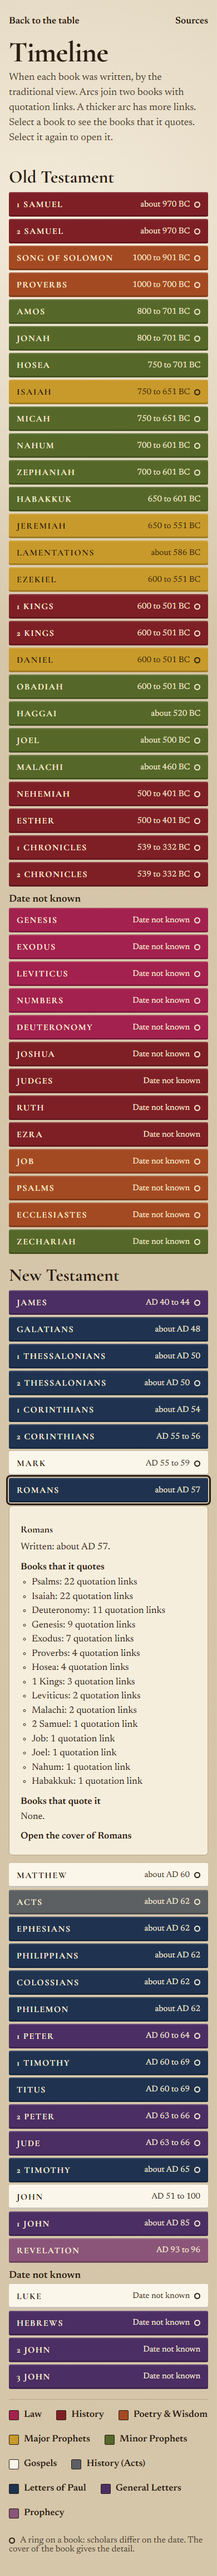
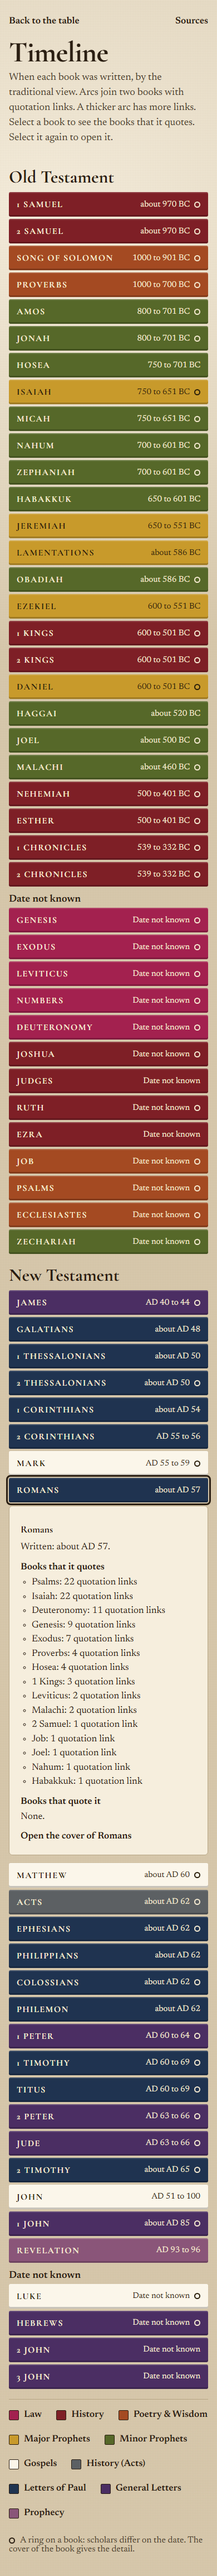
Task 8b: line between the bands counts range to range; the year leads for Obadiah

Changed region(s): [[0.0308, 0.2185, 0.9538, 0.2809]]

diff --git a/src/timeline/TimelinePage.tsx b/src/timeline/TimelinePage.tsx
@@ -207,18 +207,10 @@ function Bands({ books, data, differ, selected, picked, onActivate }: ViewProps)
     return m
   }, [bands])
 
-  // The years between the last book of band 1 and the first book of band 2, from the dates.
+  // The years between the two bands, from the dates. docs/DESIGN.md section 4.6.
   const between = useMemo(() => {
-    const inOrder = (list: Book[]) =>
-      list
-        .map((b, i) => ({ b, i, at: standPoint(data.dates.get(b.id)!) }))
-        .filter((e) => e.at !== null)
-        .sort((p, q) => p.at! - q.at! || p.i - q.i)
-    const old = inOrder(books.slice(0, OLD_TESTAMENT_BOOKS))
-    const neu = inOrder(books.slice(OLD_TESTAMENT_BOOKS))
-    const last = old[old.length - 1].b
-    const first = neu[0].b
-    return { last, first, years: yearsBetween(data.dates.get(last.id)!, data.dates.get(first.id)!) }
+    const datesOf = (list: Book[]) => list.map((b) => data.dates.get(b.id)!)
+    return yearsBetween(datesOf(books.slice(0, OLD_TESTAMENT_BOOKS)), datesOf(books.slice(OLD_TESTAMENT_BOOKS)))
   }, [books, data])
 
   // A spine dims when a legend group excludes it, or when a different book is selected and it has no arc to that book.
@@ -337,7 +329,7 @@ function Bands({ books, data, differ, selected, picked, onActivate }: ViewProps)
 
           {renderBand(bands.old, 1, 'Old Testament')}
           <p className="tl-between" style={{ top: axis1 + MIDDLE_PX / 2 - 16 }}>
-            About {between.years} years between {between.last.name} and {between.first.name}
+            About {between} years or more between the last Old Testament book and the first New Testament book
           </p>
           {renderBand(bands.neu, 2, 'New Testament')}
         </>

diff --git a/src/data/dates.test.ts b/src/data/dates.test.ts
@@ -130,10 +130,27 @@ describe('the date helpers', () => {
     expect([1, 2, 5, 6, 38].map(arcStep)).toEqual([1, 2, 2, 3, 3])
   })
 
-  it('computes the years between two spines', () => {
+  it('counts the years between the bands from the end of the last range to the start of the first range (Task 8b)', () => {
     const a: BookDate = { id: 'a', kind: 'range', from: -539, to: -332, words: '' }
+    const y: BookDate = { id: 'y', kind: 'year', from: -460, to: -460, words: '' }
+    const none: BookDate = { id: 'n', kind: 'unknown', from: null, to: null, words: '' }
     const b: BookDate = { id: 'b', kind: 'range', from: 40, to: 44, words: '' }
-    expect(yearsBetween(a, b)).toBe(480)
+    const c: BookDate = { id: 'c', kind: 'year', from: 48, to: 48, words: '' }
+    // From 332 BC to AD 40 with no year 0: 371 years, rounded down to 370.
+    expect(yearsBetween([y, a, none], [c, b, none])).toBe(370)
+  })
+
+  it('gives 370 years between the bands with the dates of dates.json', () => {
+    expect(yearsBetween(dates.slice(0, 39), dates.slice(39))).toBe(370)
+  })
+})
+
+describe('the year leads where the words give a year and a century (Task 8b step 2)', () => {
+  it('stands Obadiah and Lamentations at 586 BC', () => {
+    for (const id of ['obadiah', 'lamentations']) {
+      const d = dates.find((x) => x.id === id)!
+      expect([d.kind, d.from, d.to], id).toEqual(['year', -586, -586])
+    }
   })
 })
 

diff --git a/src/data/dates.ts b/src/data/dates.ts
@@ -58,14 +58,15 @@ export function arcStep(n: number): 1 | 2 | 3 {
 }
 
 /**
- * The years between the last book of the first band and the first book of the second band,
- * from the points where their spines stand. Rounded to 10 years.
+ * The years between two bands: from the end of the last range in the first band to the start of the
+ * first range in the second band. A book with one year is a range of one year. Books with no date do
+ * not count. Rounded down to 10 years, because the line says "N years or more". docs/DESIGN.md 4.6.
  */
-export function yearsBetween(last: BookDate, first: BookDate): number {
-  const a = standPoint(last)
-  const b = standPoint(first)
-  if (a === null || b === null) throw new Error('A book with no date has no place on the axis')
-  return Math.round((b - a) / 10) * 10
+export function yearsBetween(first: BookDate[], second: BookDate[]): number {
+  const ends = first.filter((d) => d.to !== null).map((d) => lineYear(d.to!))
+  const starts = second.filter((d) => d.from !== null).map((d) => lineYear(d.from!))
+  if (!ends.length || !starts.length) throw new Error('A band has no book with a date')
+  return Math.floor((Math.min(...starts) - Math.max(...ends)) / 10) * 10
 }
 
 export async function loadDates(): Promise<BookDate[]> {

diff --git a/e2e/timeline.spec.ts b/e2e/timeline.spec.ts
@@ -9,7 +9,7 @@ test.describe('timeline page', () => {
     await expect(page.getByRole('list', { name: 'Old Testament, in date order' }).getByRole('button')).toHaveCount(39)
     await expect(page.getByRole('list', { name: 'New Testament, in date order' }).getByRole('button')).toHaveCount(27)
     await expect(page.locator('path.tl-arc')).toHaveCount(129)
-    await expect(page.locator('.tl-between')).toHaveText(/^About \d+ years between \S.* and \S/)
+    await expect(page.locator('.tl-between')).toHaveText(/^About \d+ years or more between the last Old Testament book and the first New Testament book$/)
   })
 
   test('a selected book shows its list, and a second action opens its cover', async ({ page }) => {

diff --git a/docs/CONTENT-SOURCES.md b/docs/CONTENT-SOURCES.md
@@ -2551,7 +2551,11 @@ How the words give the years:
 8. The time of a person gives no years, unless the table of periods has an entry for it. Arthur's decision 2 under "Periods" says this.
 9. Words that give only the latest time, or only the earliest time, give no date: "before AD 70", "no later than the 90s AD", "by the time of King David", "some time after David became king", "no earlier than about AD 62", "from about 520 BC". The book goes in the group "Date not known" and on the "Not verified" list. Task 8 step 2 says this.
 10. Words that place the writing soon after a dated event give the year of the event: "soon after Babylon destroyed Jerusalem about 586 BC" is 586 BC, and "soon after the end of David's reign, about 970 BC" is 970 BC.
-11. The spine stands at the year, or at the middle of the range. The years between the two bands are counted between the spine of the last book of the Old Testament band and the spine of the first book of the New Testament band, with no year 0, and rounded to 10 years.
+11. Where the words give a year and a century for the time of writing, the year leads (Task 8b). Obadiah: "Probably the 6th century BC, soon after Babylon destroyed Jerusalem about 586 BC" is 586 BC, as Lamentations is. A year that is only a limit, or the year of an event in the book, does not lead. 2 Kings: "the 6th century BC", and "before Cyrus let the captives in Babylon go home in 538 BC" is a limit. Daniel: "the 6th century BC", and 605 BC to 536 BC are the years of Daniel's life in the book. Isaiah: "the late 8th and early 7th centuries BC", and 740 BC is the year when Isaiah was called. These three books keep their century. Proverbs: "Begun under Solomon in the 10th century BC" is the start and "about 700 BC" is the end, so rule 6 makes one range, 1000 BC to 700 BC. A script found no other Written fact with a year and a century, outside the sentences that start "An older view".
+12. The spine stands at the year, or at the middle of the range.
+13. The line between the bands counts from the end of the last range in the Old Testament band to the start of the first range in the New Testament band (Task 8b). A book with one year is a range of one year. Books with no date do not count. The count has no year 0, and is rounded down to 10 years, because the line says "or more". With the dates below: 332 BC, the end of 1 and 2 Chronicles, to AD 40, the start of James, is 371 years. The line says "About 370 years or more between the last Old Testament book and the first New Testament book".
+
+Arthur accepted rules 1 to 10 as built on 2026-11-14 (docs/DESIGN.md section 4.6). Rules 11 and 13 are his decisions of the same day.
 
 | Book | Kind | First year | Last year | Words of the Written fact |
 |---|---|---|---|---|
@@ -2585,7 +2589,7 @@ How the words give the years:
 | Hosea | range | 750 BC | 701 BC | "the late 8th century BC" |
 | Joel | year | 500 BC | 500 BC | "perhaps about 500 BC" |
 | Amos | range | 800 BC | 701 BC | "the 8th century BC" |
-| Obadiah | range | 600 BC | 501 BC | "Probably the 6th century BC" |
+| Obadiah | year | 586 BC | 586 BC | "soon after Babylon destroyed Jerusalem about 586 BC" |
 | Jonah | range | 800 BC | 701 BC | "the 8th century BC" |
 | Micah | range | 750 BC | 651 BC | "the late 8th and early 7th centuries BC" |
 | Nahum | range | 700 BC | 601 BC | "the 7th century BC" |

diff --git a/docs/reviews/task-8b-not-verified.md b/docs/reviews/task-8b-not-verified.md
@@ -1,0 +1,7 @@
+# Task 8b: the "Not verified" list of the accuracy reviewer
+
+The accuracy reviewer of Task 8b wrote this list on 2026-11-14. It is copied here without changes. The code reviewer passed Task 8b with no item.
+
+1. 2 Kings: the bar ends at 501 BC, but the same fact says "before Cyrus let the captives in Babylon go home in 538 BC". Rule 11 keeps the full 6th century, 600 BC to 501 BC. No rule says whether a limit in the words should cut the range at 538 BC. The spine stands at about 550 BC, which is inside the limit. Only the bar goes past the limit.
+2. Daniel: the spine stands at the middle of 600 BC to 501 BC, about 550 BC. The same fact says that the book covers Daniel's life to about 536 BC. So the spine stands before the last event in the book. The words do not say that the book was written after 536 BC, so no rule settles this.
+3. Mark: `dates.json` uses only "the second half of the 50s AD", AD 55 to 59. The fact also says "A date in the middle or late 60s AD is also possible." No rule says how to treat an "also possible" sentence. This entry did not change in Task 8b. Arthur accepted it as built.

diff --git a/docs/TASKS.md b/docs/TASKS.md
@@ -434,7 +434,7 @@ Stop and report. Include screenshots of the page, of a selected book, and of the
 
 ## Task 8b. Timeline: two corrections
 
-Status: TODO
+Status: DONE
 
 Accuracy review: yes
 
